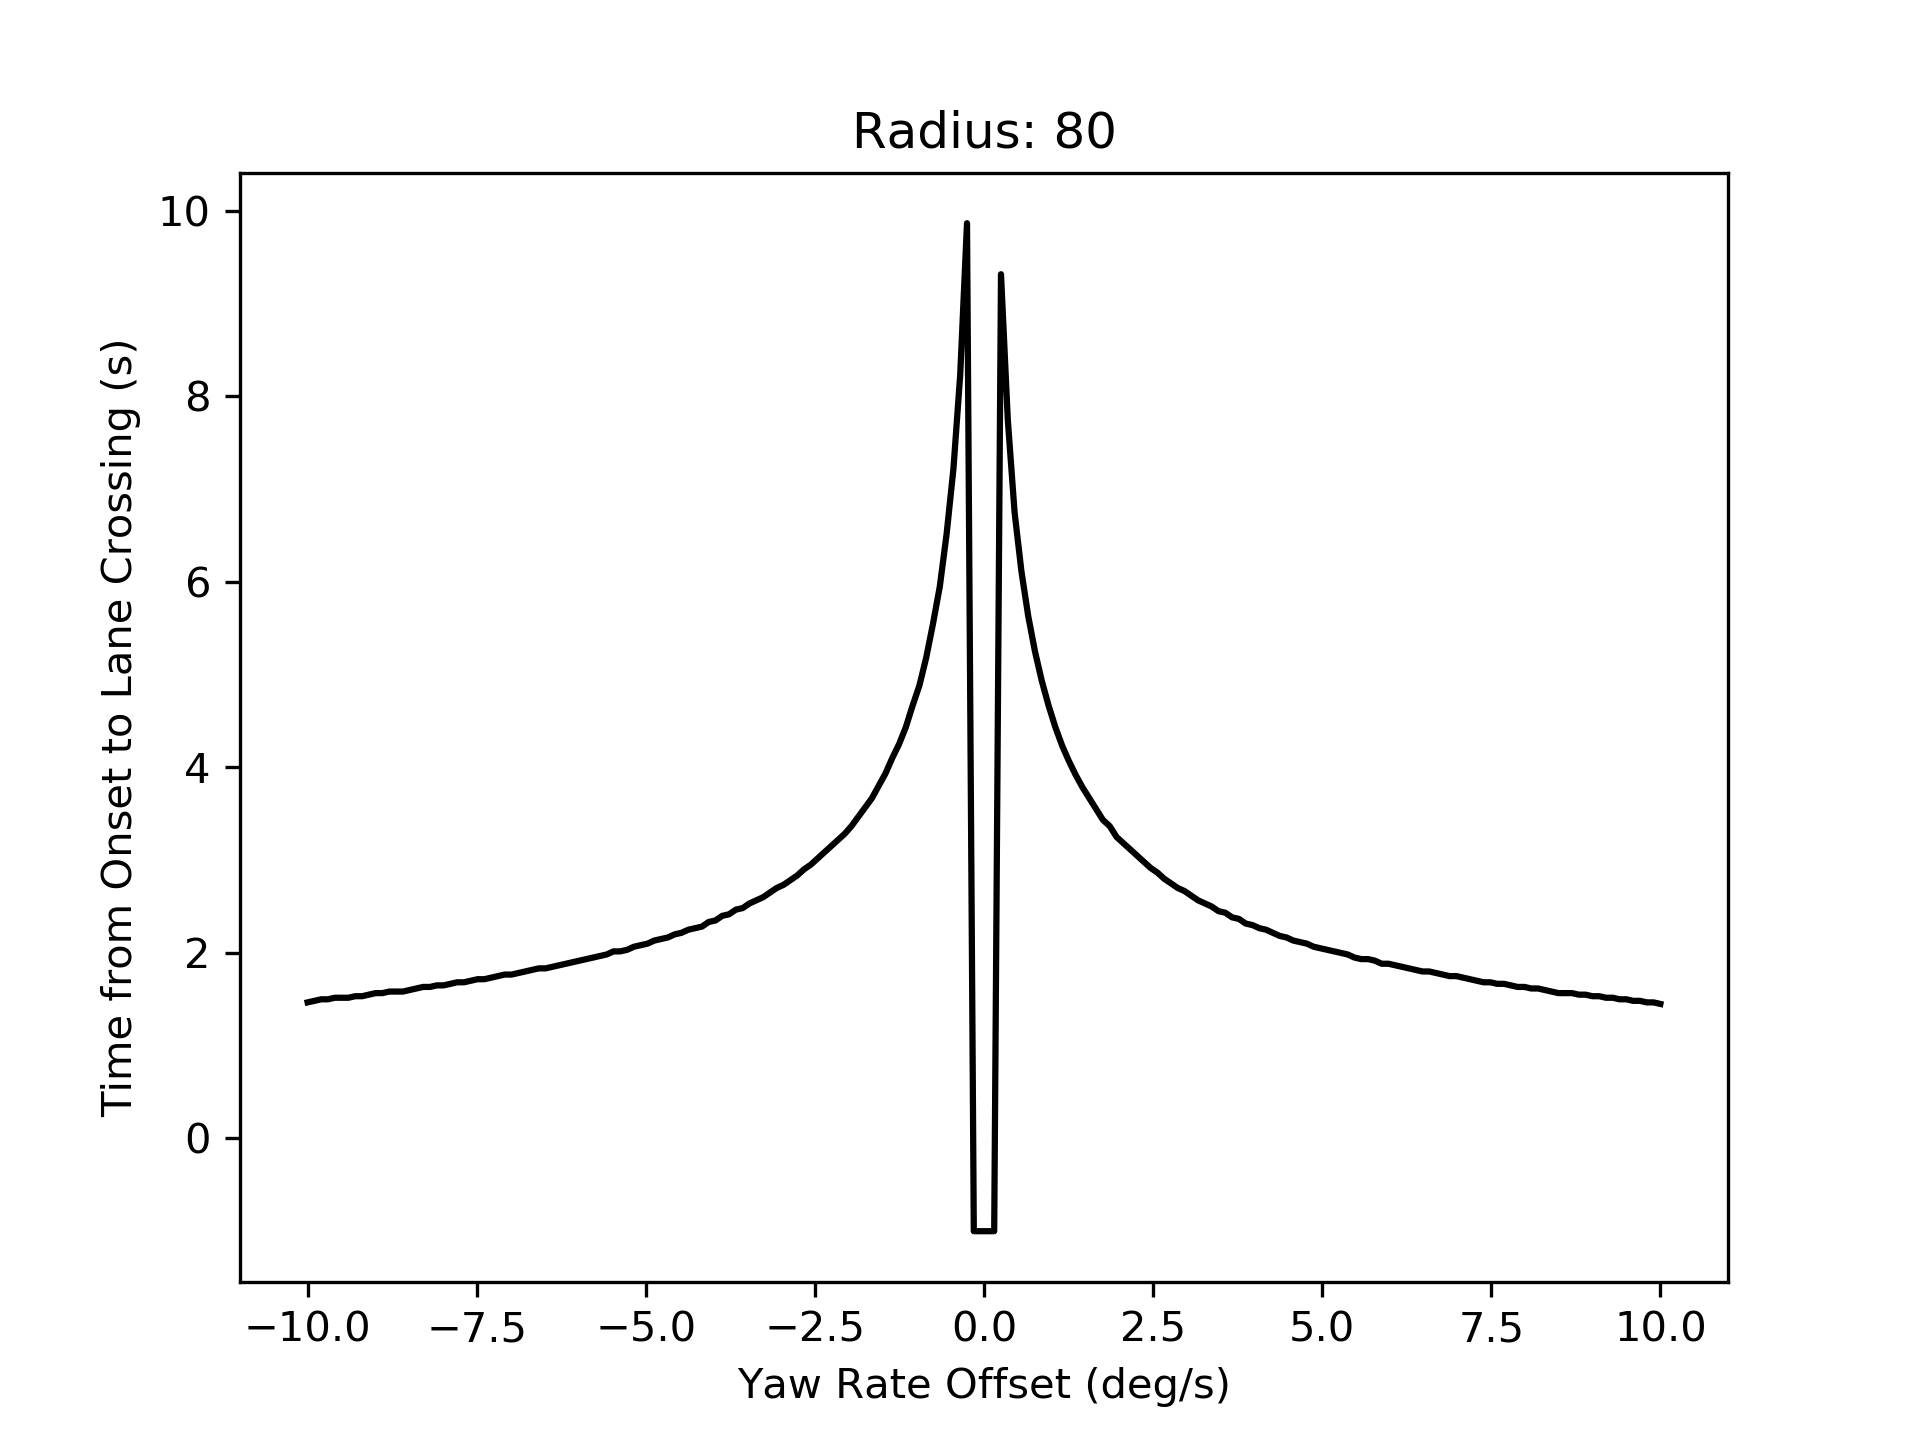
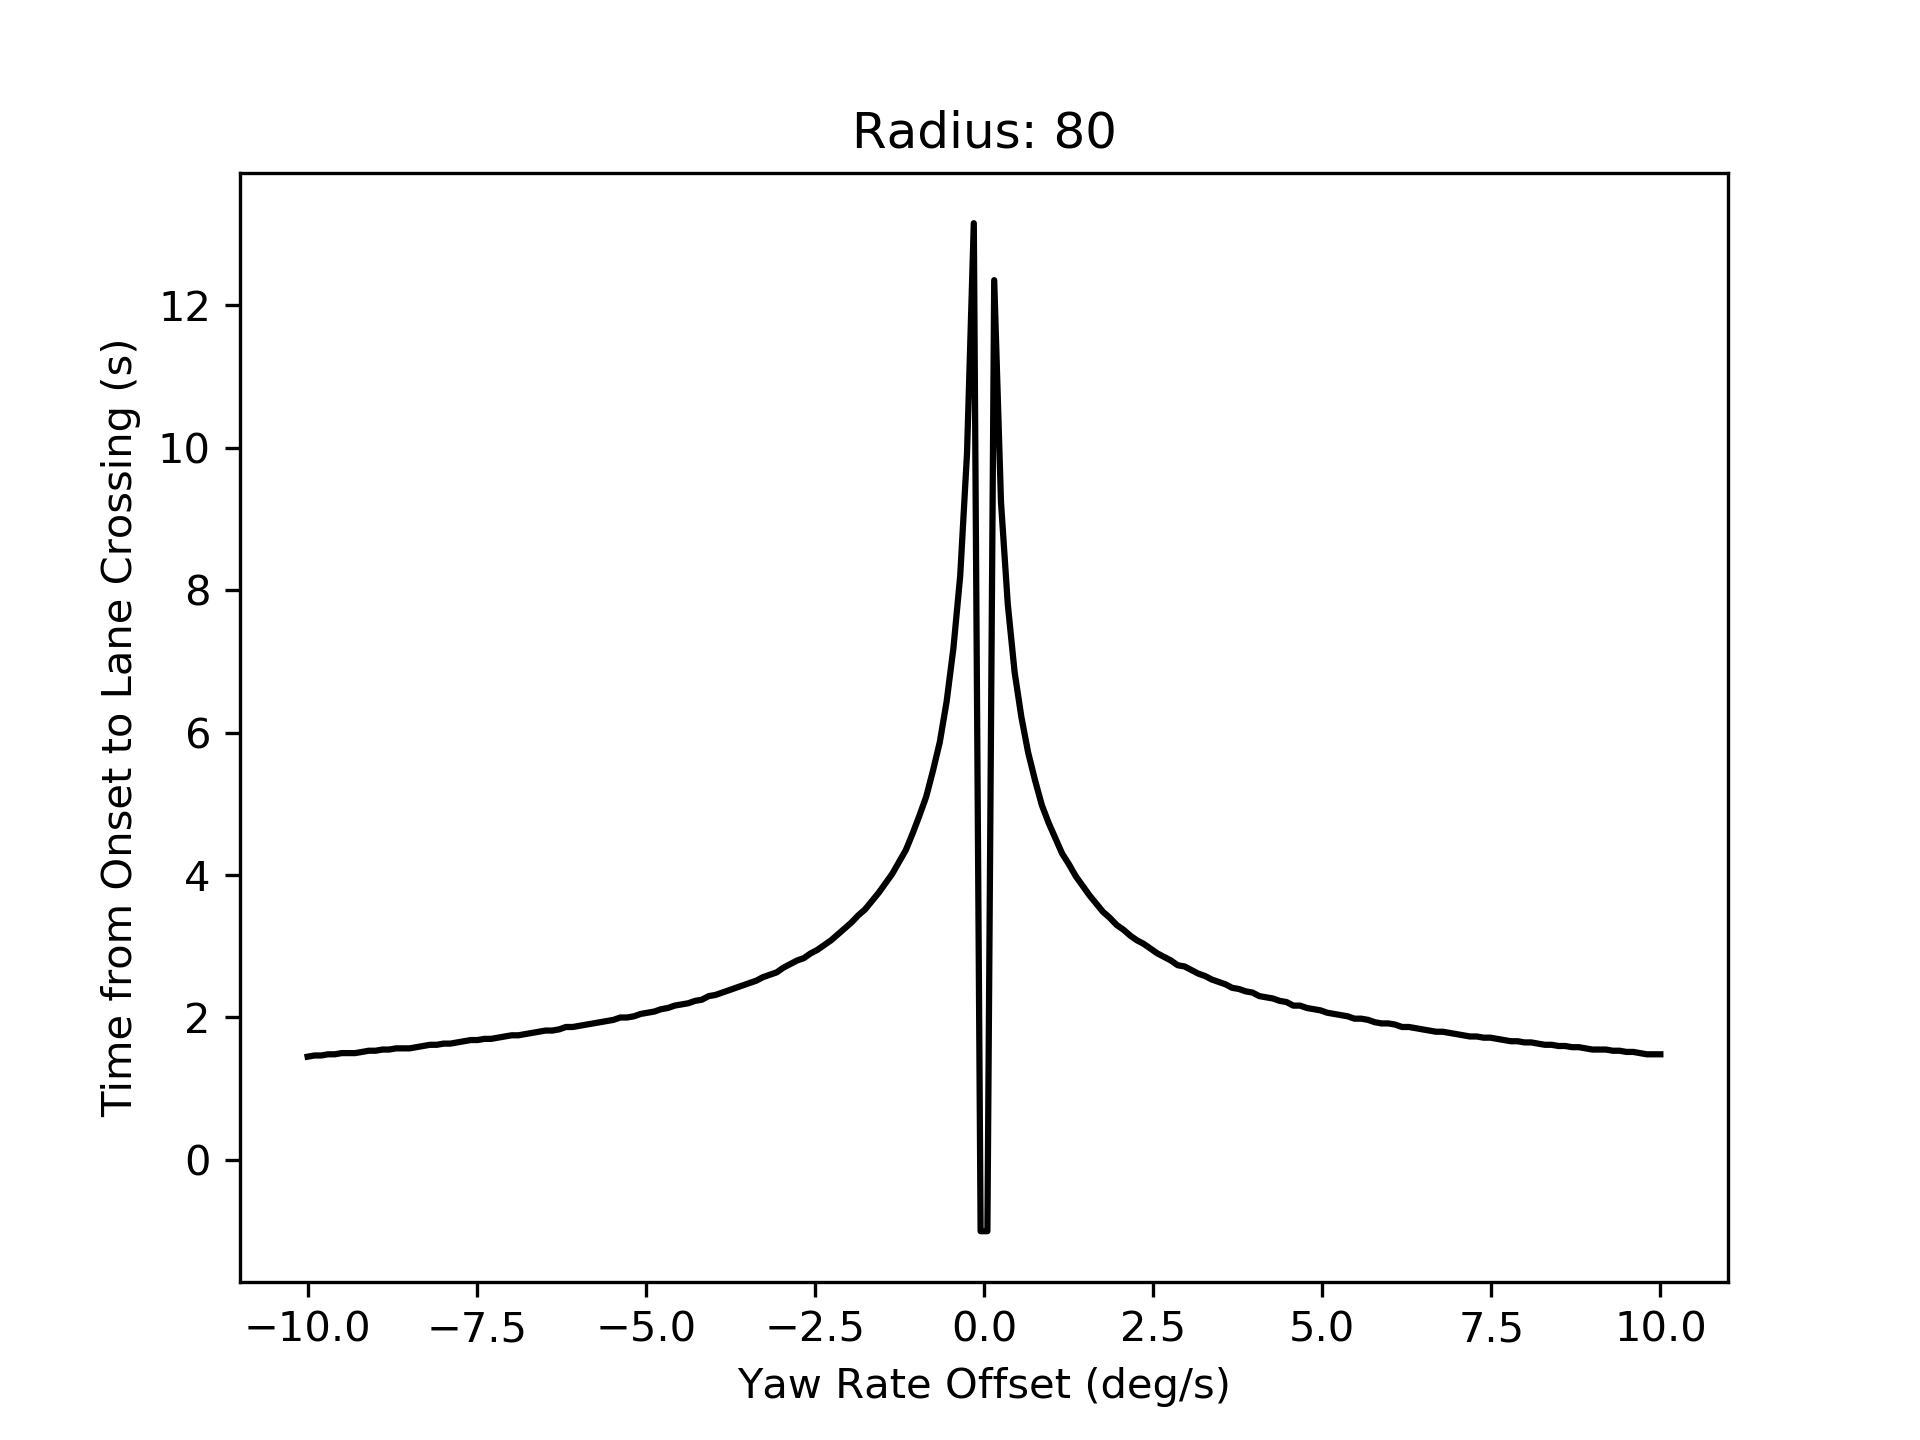
update figs with onset = 0

diff --git a/TrackSimulation.py b/TrackSimulation.py
@@ -106,7 +106,7 @@ def runSimulation(Course, yawrate_readout, yawrateoffset= 0):
     Car = vehicle(0.0, speed, dt, yawrate_readout, Course)
 
     i = 0
-    onset = 3 #in seconds
+    onset = 0 #in seconds
     crossed = False
     time_til_crossing = -1
     while time < run_time and crossed == False:
@@ -154,7 +154,7 @@ def plotCar(plt, Car):
 if __name__ == '__main__':
     
     #Create Bend
-    myrads = 80
+    myrads = 40
     Course = Bend(startpos = [0,0], rads = myrads, x_dir = 1, road_width=3.0) 
     
     #Plot Bend
